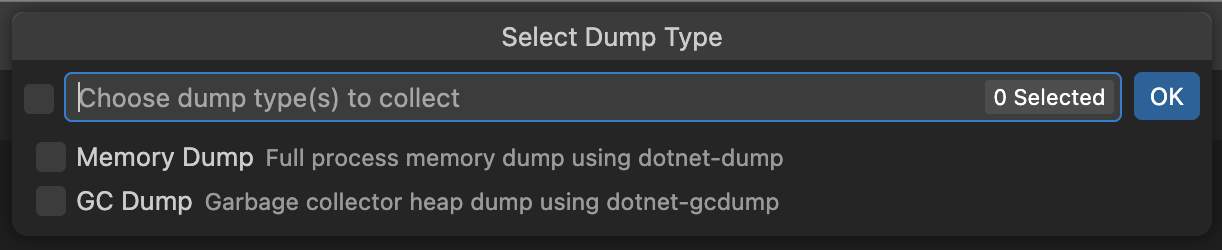
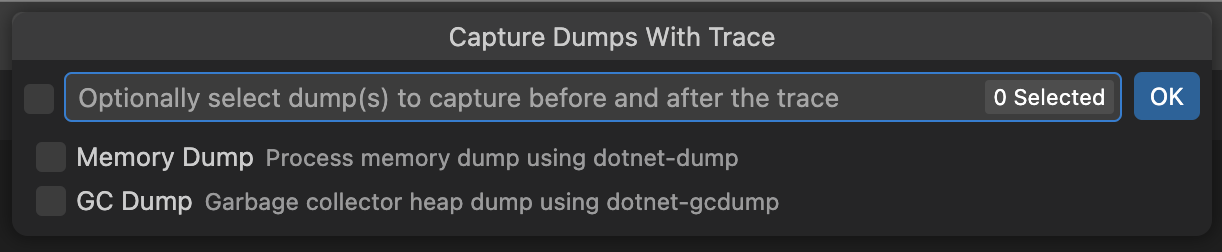
Remove the word full

diff --git a/src/lsptoolshost/logging/loggingUtils.ts b/src/lsptoolshost/logging/loggingUtils.ts
@@ -127,7 +127,7 @@ export async function selectDumpsWithArguments(options: SelectDumpsOptions): Pro
     const items: DumpTypeQuickPickItem[] = [
         {
             label: vscode.l10n.t('Memory Dump'),
-            description: vscode.l10n.t('Full process memory dump using dotnet-dump'),
+            description: vscode.l10n.t('Process memory dump using dotnet-dump'),
             type: 'memory',
         },
         {
